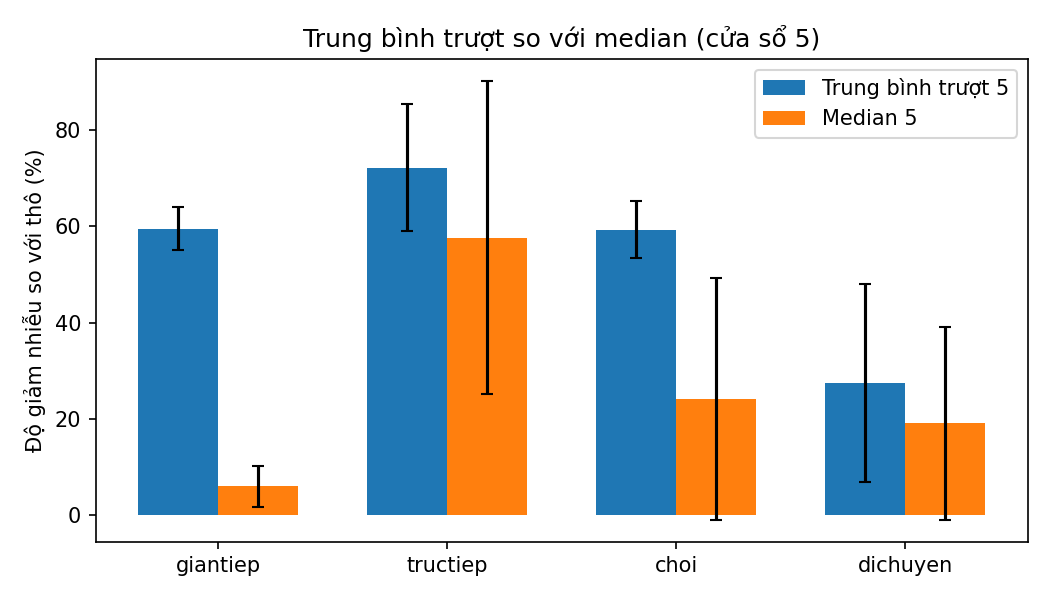
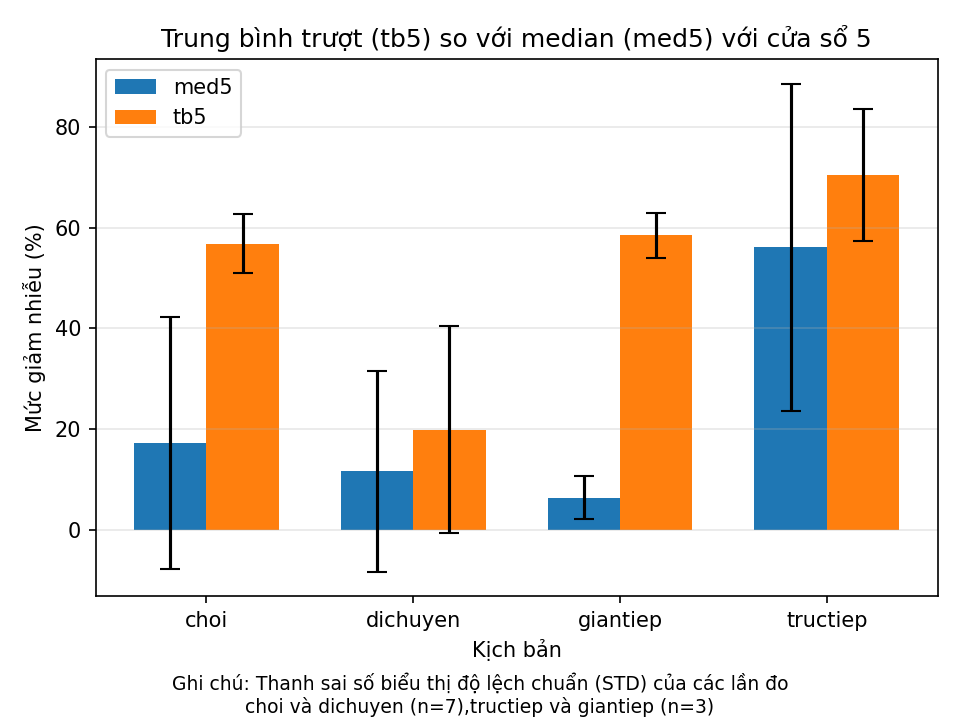
Bieu do bo loc A, cap nhat ket luan

diff --git a/bieu_do_tong_hop.py b/bieu_do_tong_hop.py
@@ -9,10 +9,63 @@ goc = df[df["bo_loc"] == "tho"][
 
 goc = goc.rename(columns={"nhieu": "nhieu_goc"})
 df = df.merge(goc, on=["kich_ban", "file"])
-df["giam_nhieu"] = df["nhieu_goc"] - df["nhieu"]
+df["giam_nhieu_pct"] = (
+    (df["nhieu_goc"] - df["nhieu"]) / df["nhieu_goc"]
+) * 100
 
 tong_hop = df[df["bo_loc"].isin(["tb5", "med5"])]
 ket_qua = tong_hop.groupby(
     ["kich_ban", "bo_loc"]
-)["giam_nhieu"].agg(["mean", "std"])
+)["giam_nhieu_pct"].agg(["mean", "std"])
 print(ket_qua)
+
+import matplotlib.pyplot as plt
+import numpy as np
+
+# Lấy dữ liệu
+mean = ket_qua["mean"].unstack()
+std = ket_qua["std"].unstack()
+
+# Tạo vị trí cột
+x = np.arange(len(mean))
+rong = 0.35
+
+# Vẽ biểu đồ
+plt.bar(
+    x - rong/2,
+    mean["med5"],
+    rong,
+    label="med5",
+    yerr=std["med5"],
+    capsize=5
+)
+
+plt.bar(
+    x + rong/2,
+    mean["tb5"],
+    rong,
+    label="tb5",
+    yerr=std["tb5"],
+    capsize=5
+)
+
+# Trang trí
+plt.xticks(x, mean.index)
+plt.xlabel("Kịch bản")
+plt.ylabel("Mức giảm nhiễu (%)")
+plt.title("Trung bình trượt (tb5) so với median (med5) với cửa sổ 5")
+plt.legend()
+plt.grid(axis="y", alpha=0.3)
+plt.figtext(
+    0.5, 0.01,
+    "Ghi chú: Thanh sai số biểu thị độ lệch chuẩn (STD) của các lần đo\nchoi và dichuyen (n=7),tructiep và giantiep (n=3)",
+    ha="center",
+    fontsize=9
+)
+plt.tight_layout(rect=[0, 0.05, 1, 1])
+plt.savefig("image_and_video/bo_loc_A.png", dpi=150)
+plt.tight_layout()
+plt.show()
+#unstack(): chuyển bo_loc từ MultiIndex thành các cột riêng biệt (med5, tb5).
+#yerr=std["med5"]: thể hiện độ lệch chuẩn bằng thanh sai số.
+#capsize=5: tạo hai đầu mút cho thanh sai số.
